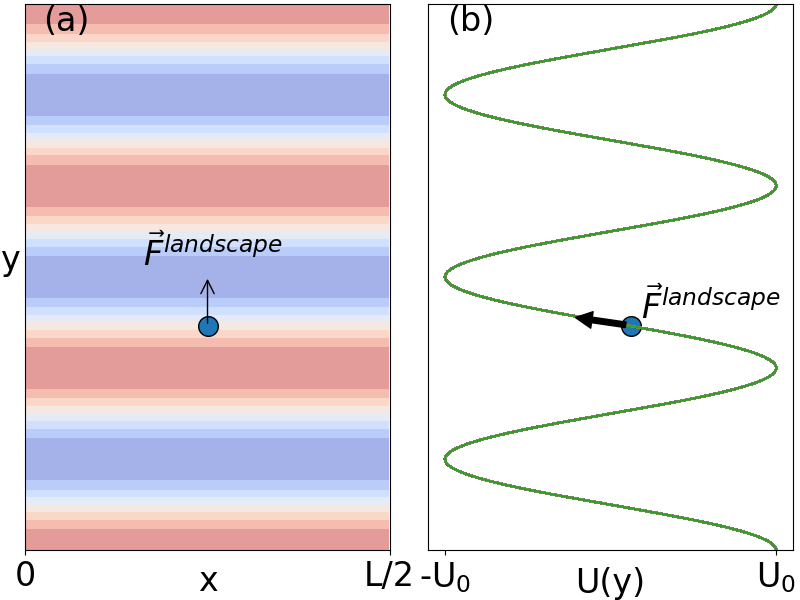
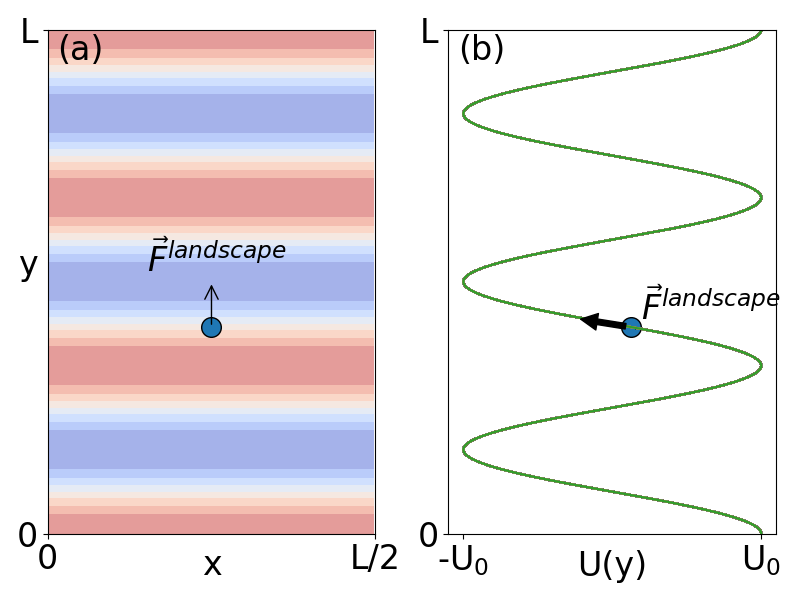
made fig. 0

diff --git a/code/plot_landscape.py b/code/plot_landscape.py
@@ -62,7 +62,7 @@ def add_contour(ax,ax2,L,N):
     ax.set_ylim(0, L)
 
     ax.set_xlabel(r"x",labelpad=-20)
-    ax.set_ylabel(r"y",rotation='horizontal',ha='right')
+    ax.set_ylabel(r"y",rotation='horizontal',ha='right',labelpad=-15)
 
     ax.set_xticks([0,L/2])
     ax.set_yticks([0,L])
@@ -73,7 +73,7 @@ def add_contour(ax,ax2,L,N):
     #ax2.set_xlim(-Z_mag*1.2,Z_mag*1.2)
     ax2.set_xticks([-Z_mag,Z_mag])
     ax2.set_xticklabels([r'-U$_0$','U$_0$'])
-    ax2.set_yticks([])
+    #ax2.set_yticks([])
     return 
 
 ################################################################
@@ -121,8 +121,8 @@ if __name__ == "__main__":
 
     ax1.annotate(r" $\vec{F}^{landscape}$", xytext=(xp, yp+4), xy=(xp, yp), arrowprops=dict(facecolor='black', arrowstyle="<-"),ha="center")
 
-    ax1.text(0.05,0.95,"(a)",transform = ax1.transAxes)
-    ax2.text(0.05,0.95,"(b)",transform = ax2.transAxes)
+    ax1.text(0.03,0.94,"(a)",transform = ax1.transAxes)
+    ax2.text(0.03,0.94,"(b)",transform = ax2.transAxes)
     
     #plot the "side view" of the potential
 
@@ -131,7 +131,7 @@ if __name__ == "__main__":
     #annotate variables on plot
 
     #configure and save the image
-    fig.tight_layout(pad=0.0) #h_pad=-0.5,w_pad=1.0,pad=0.5)
+    fig.tight_layout(pad=0.5) #h_pad=-0.5,w_pad=1.0,pad=0.5)
     image_test_name = "landscape.png"
     plt.savefig(image_test_name)
 
